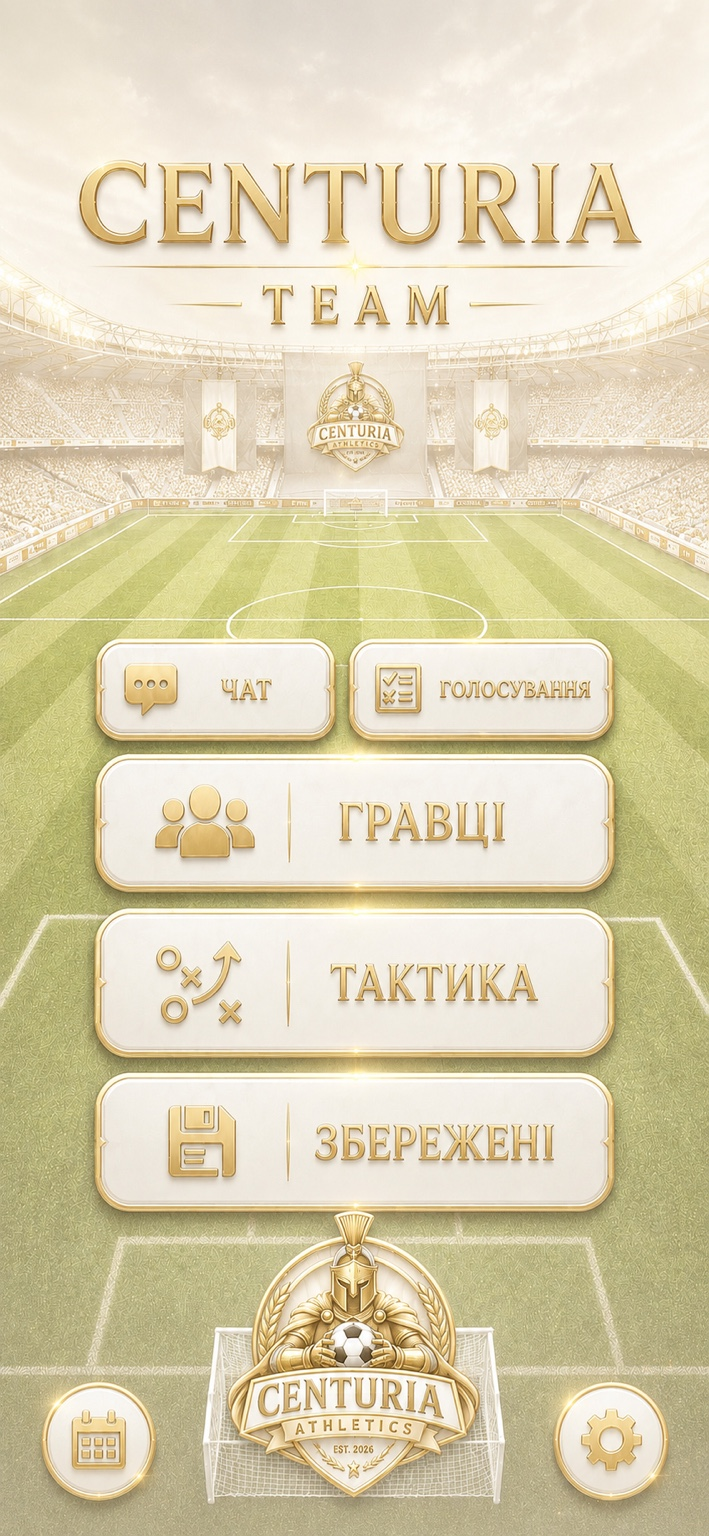
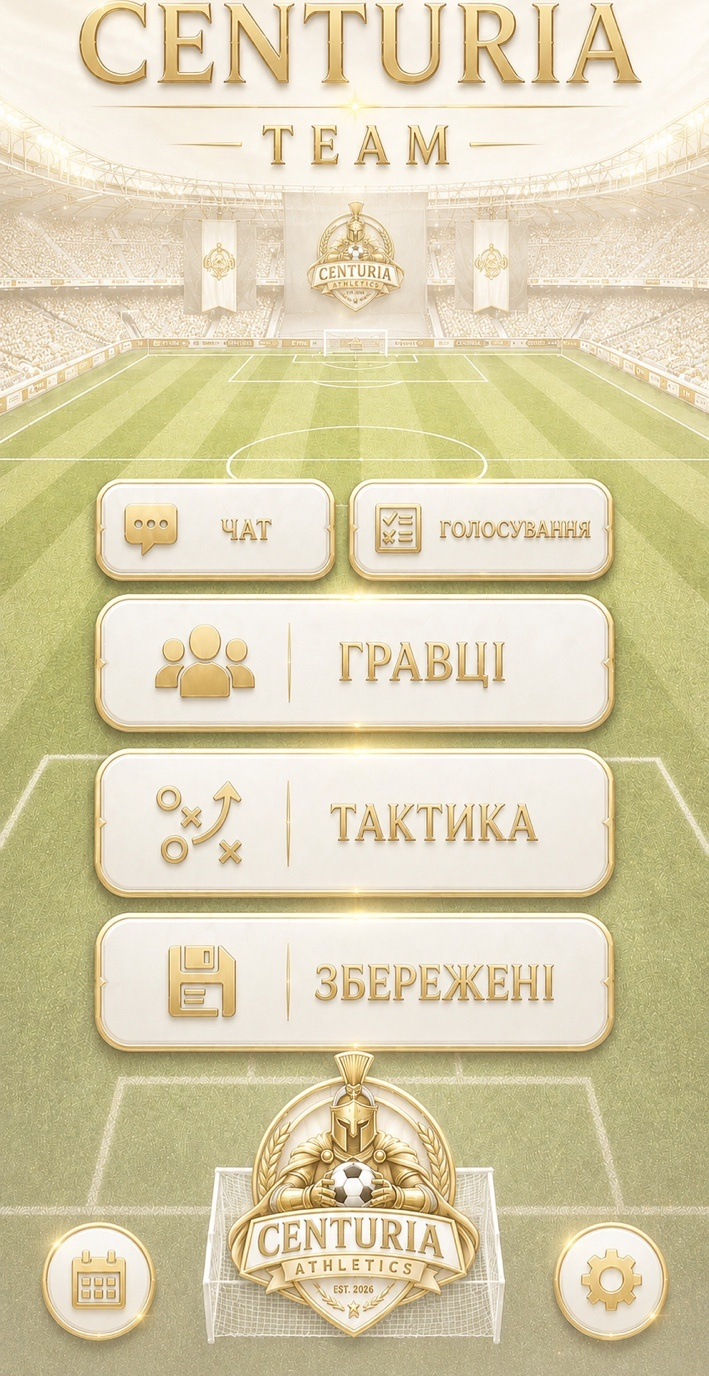
Add files via upload

diff --git a/style.css b/style.css
@@ -6741,19 +6741,55 @@ html.light-theme #playerDialog #cardPreview.card-preview img{
 }
 
 /* ==========================================================
-   v5.75 — iPhone status-bar fix, based on stable v5.74
-   The home artwork may render under the status bar.
-   Scrolling and full bottom content remain untouched.
+   v5.75 — HOME artwork top crop fix
+   Base: stable v5.74
+   Cropped 160px blank strip from both light/dark home images.
+   Coordinates below are re-mapped to the cropped image.
    ========================================================== */
 
-#screen-home,
-#screen-home .home-art-wrap,
-#screen-home .home-art{
-  margin-top:0!important;
-  padding-top:0!important;
+#screen-home .hs-chat{
+  left:13.2%!important; top:34.363%!important; width:34.0%!important; height:7.479%!important;
+}
+#screen-home .hs-gatherings{
+  left:48.9%!important; top:34.363%!important; width:37.8%!important; height:7.479%!important;
+}
+#screen-home .hs-players{
+  left:13.1%!important; top:42.847%!important; width:73.7%!important; height:10.047%!important;
+}
+#screen-home .hs-tactics{
+  left:13.1%!important; top:54.121%!important; width:73.7%!important; height:10.047%!important;
+}
+#screen-home .hs-squads{
+  left:13.1%!important; top:65.507%!important; width:73.7%!important; height:10.381%!important;
+}
+#screen-home .hs-calendar{
+  left:5.6%!important; top:88.167%!important; width:16.3%!important; height:8.707%!important;
+}
+#screen-home .hs-settings{
+  right:4.9%!important; top:87.944%!important; width:16.5%!important; height:8.930%!important;
 }
 
-/* No artificial height/overflow restrictions on HOME. */
+#screen-home .home-online-badge{
+  top:34.419%!important;
+}
+
+#screen-home .home-next-event{
+  left:8.7%!important;
+  top:20.633%!important;
+  width:55.0%!important;
+  height:11.163%!important;
+}
+
+#screen-home .home-mvp-card,
+#screen-home .home-mvp-card.hidden{
+  left:65.2%!important;
+  top:20.633%!important;
+  width:25.8%!important;
+  height:11.163%!important;
+}
+
+/* Keep natural full image height and normal scrolling.
+   No clipping, no forced viewport height, no scale changes. */
 #screen-home{
   height:auto!important;
   min-height:0!important;
@@ -6762,17 +6798,13 @@ html.light-theme #playerDialog #cardPreview.card-preview img{
 }
 #screen-home .home-art-wrap{
   height:auto!important;
+  min-height:0!important;
   overflow:visible!important;
+  margin-top:0!important;
+  padding-top:0!important;
 }
-
-/* Fallback color behind iOS safe area if standalone mode has not refreshed yet. */
-html[data-site-theme="light"],
-html.light-theme,
-body[data-site-theme="light"],
-body.light-theme{
-  background-color:#f3eee2!important;
-}
-html:not([data-site-theme="light"]):not(.light-theme),
-body:not([data-site-theme="light"]):not(.light-theme){
-  background-color:#060708!important;
+#screen-home .home-art,
+#homeBackgroundImage{
+  margin-top:0!important;
+  padding-top:0!important;
 }

diff --git a/index.html b/index.html
@@ -2,7 +2,7 @@
 <html lang="uk">
 <head>
   <meta charset="utf-8">
-  <meta name="viewport" content="width=device-width, initial-scale=1, maximum-scale=1, minimum-scale=1, user-scalable=no, viewport-fit=cover">
+  <meta name="viewport" content="width=device-width, initial-scale=1, maximum-scale=1, minimum-scale=1, user-scalable=no">
   <meta name="theme-color" content="#090909">
   <title>Centuria Athletics</title>
   <link rel="stylesheet" href="style.css?v=5.75">
@@ -59,8 +59,6 @@
 })();
 </script>
 
-  <meta name="apple-mobile-web-app-capable" content="yes">
-  <meta name="apple-mobile-web-app-status-bar-style" content="black-translucent">
 </head>
 <body>
 <div id="app">
